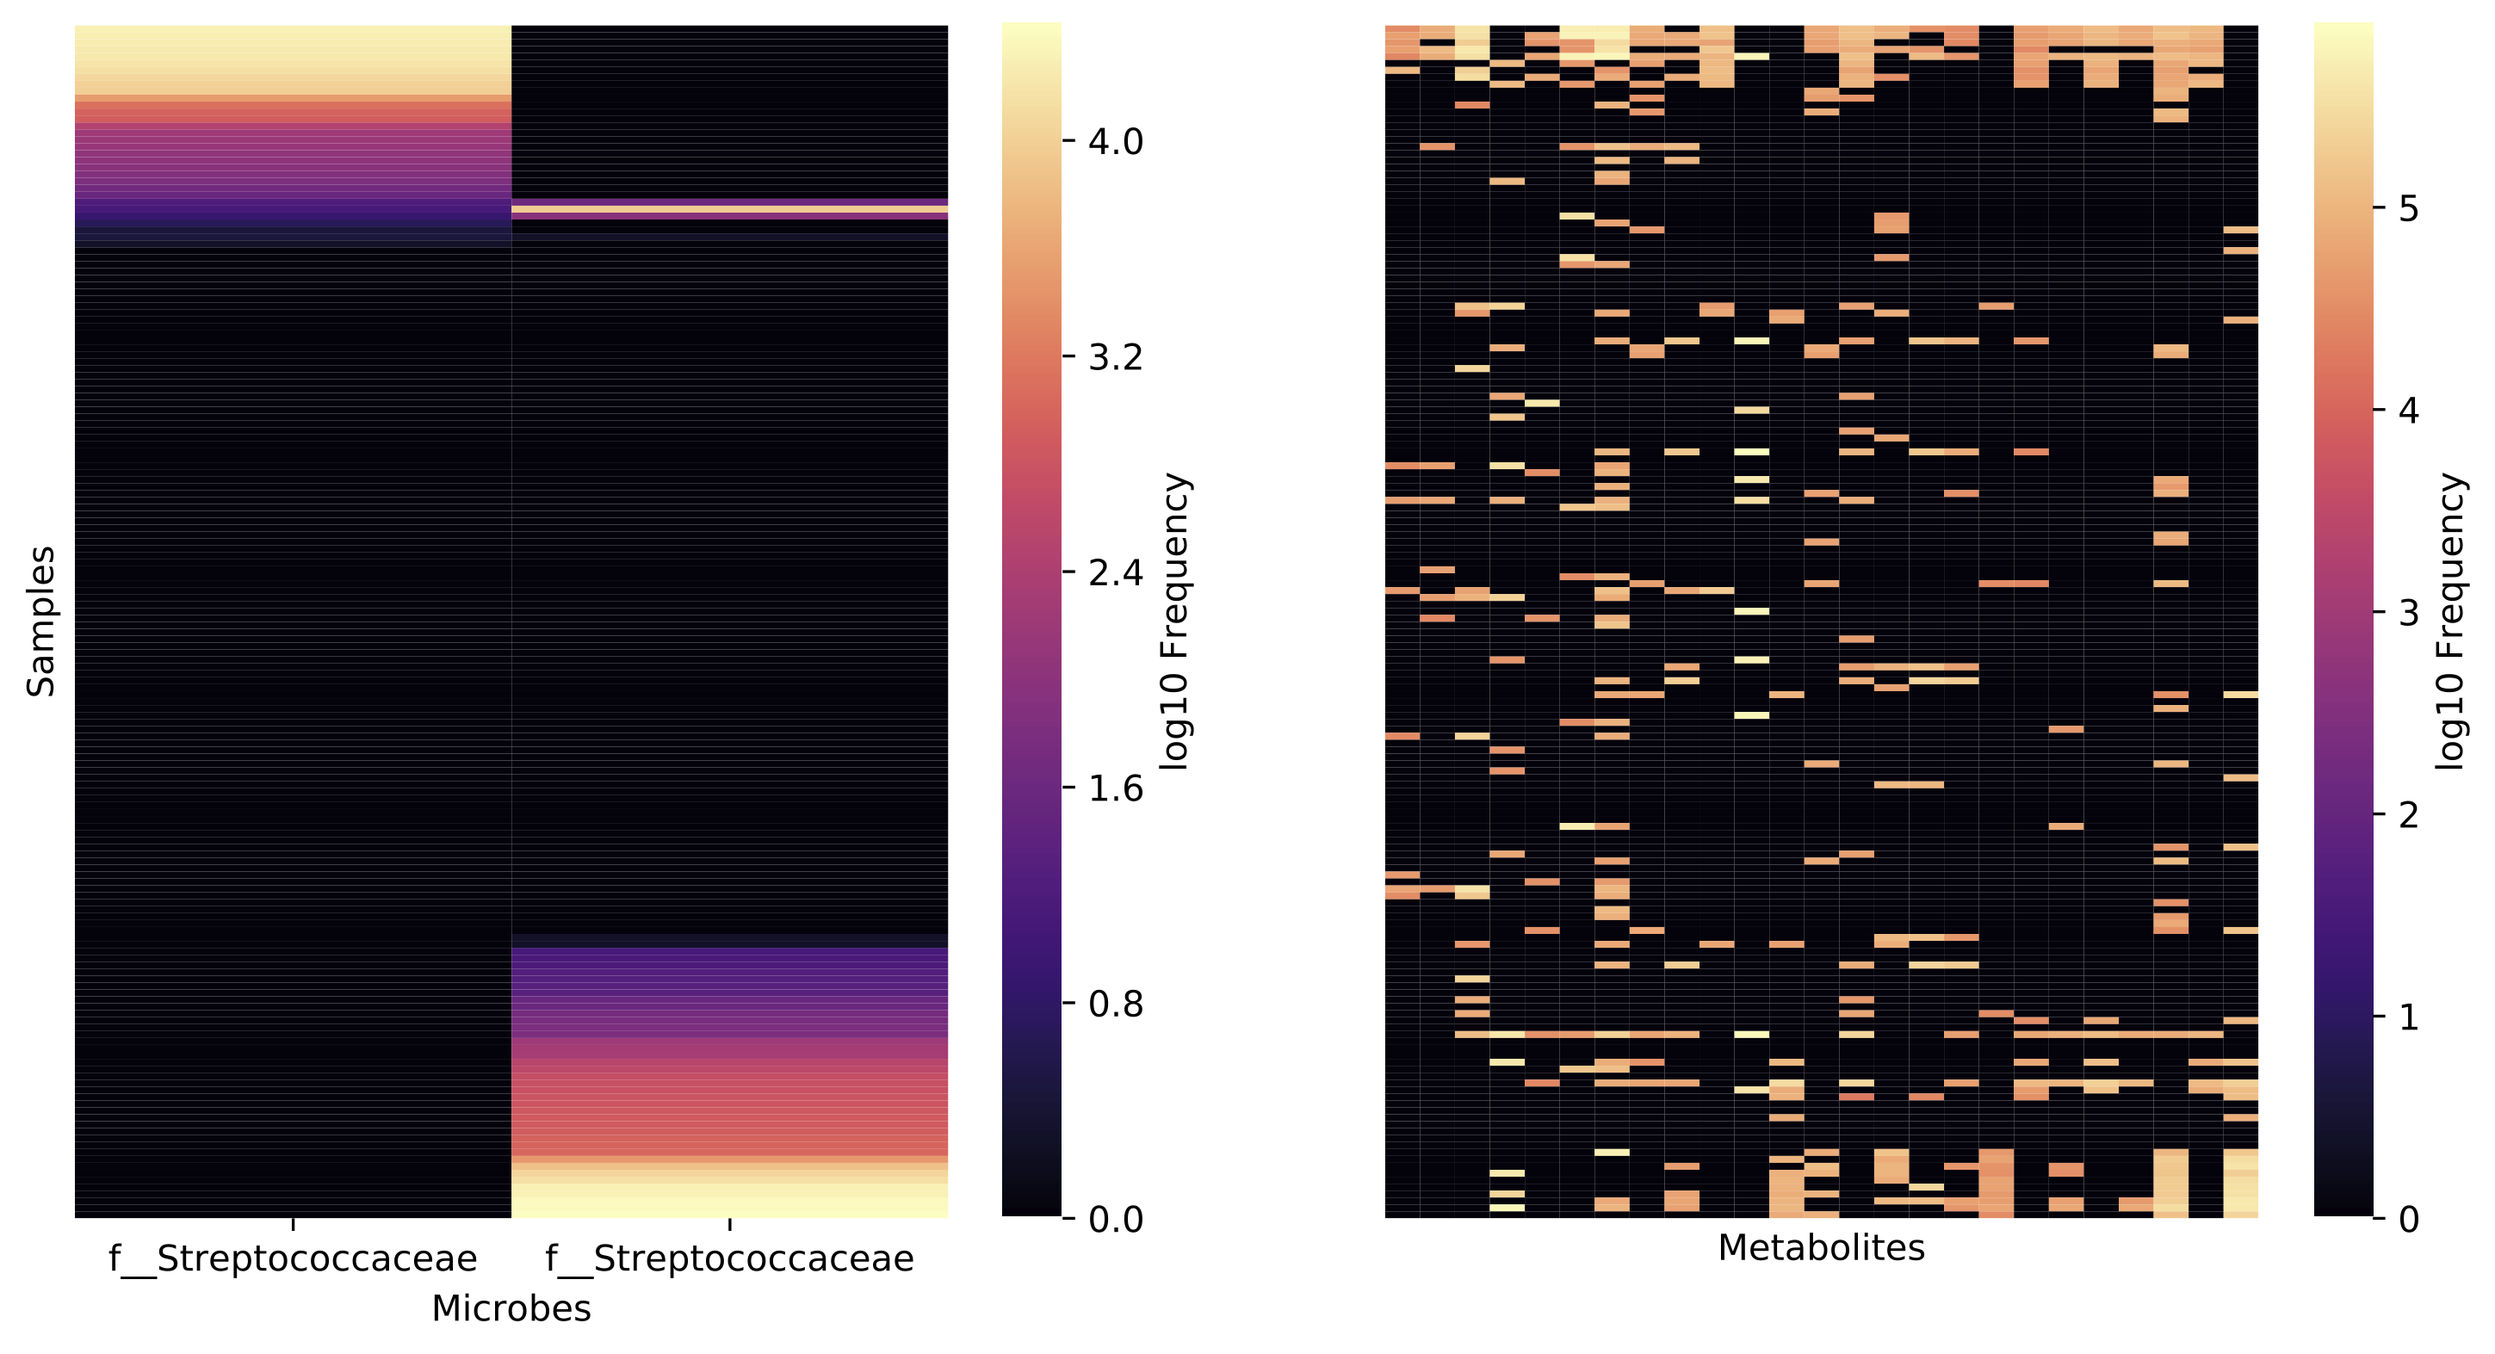
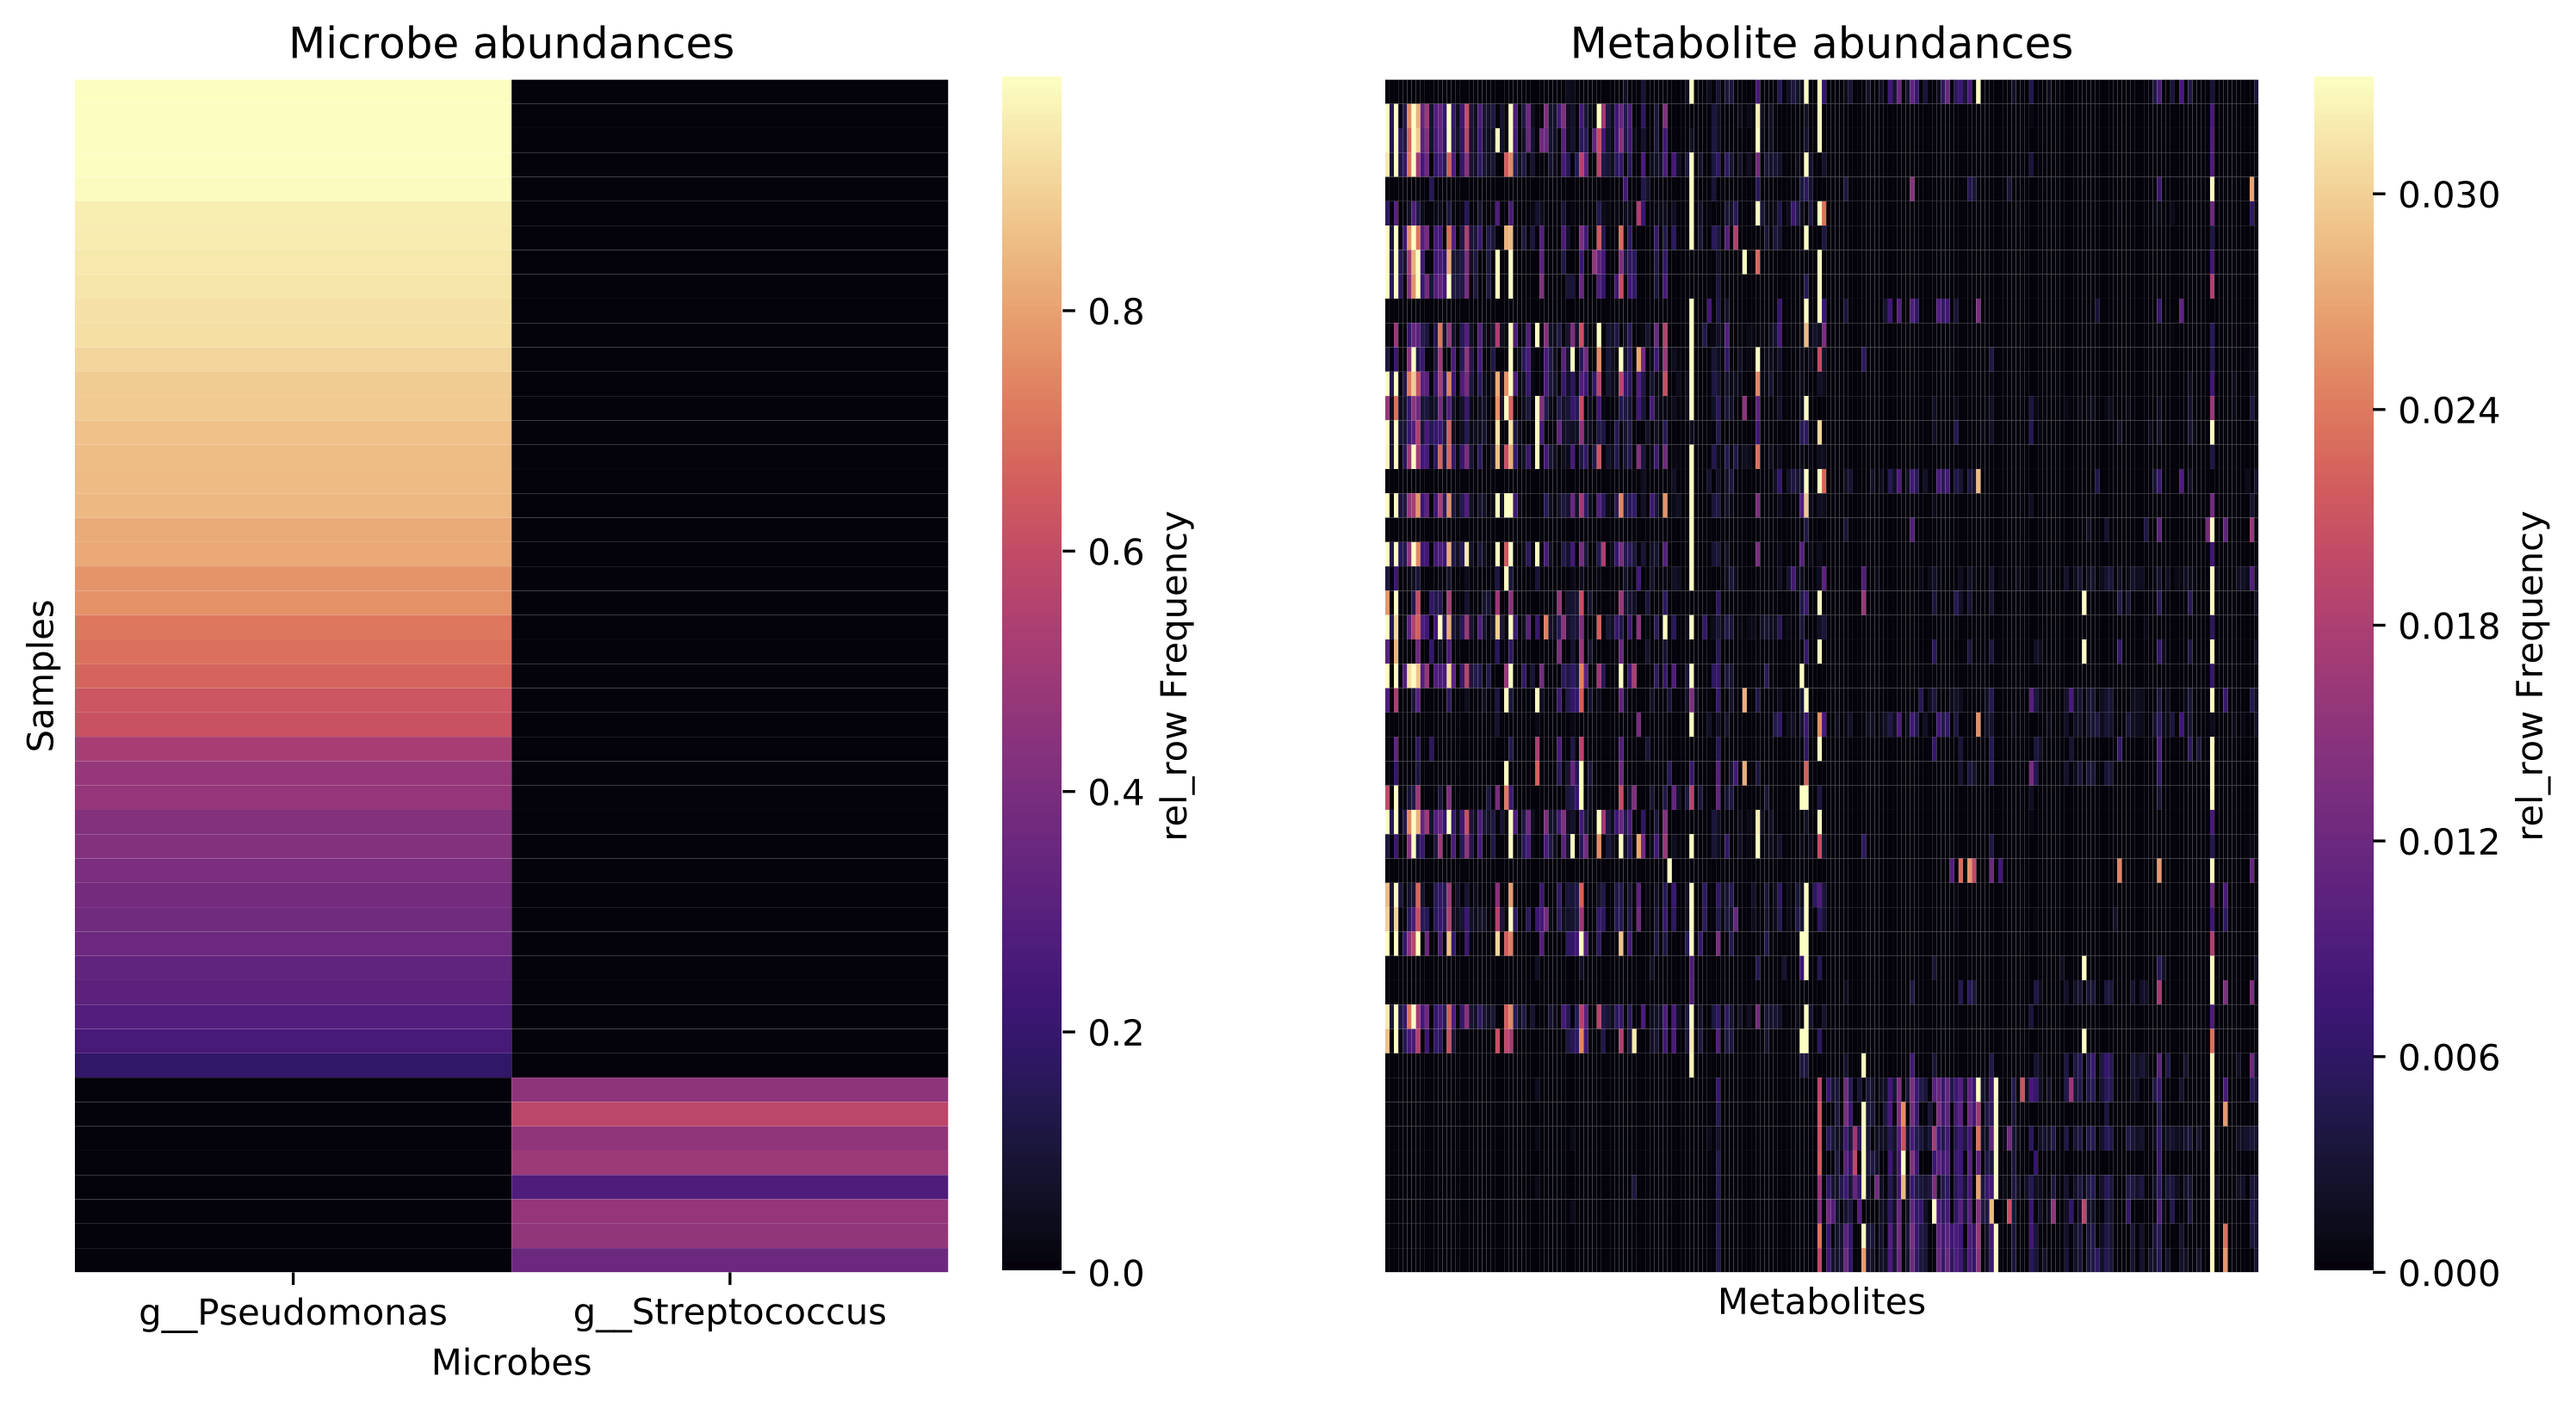
update paired-heatmaps

diff --git a/README.md b/README.md
@@ -138,26 +138,47 @@ values indicate no relationship, not necessarily a negative correlation. Rows
 (microbial features) can be annotated according to feature metadata, as shown
 in this example; we provide a taxonomic classification file and the semicolon-
 delimited taxonomic rank (`level`) that should be displayed in the color-coded
-margin annotation. Set `level` to `-1` to display the full annotation (including of non-delimited feature metadata). Separate parameters are available to annotate the x-axis (metabolites) in a similar fashion. Row and column clustering can be adjusted using the `method` and `metric` parameters. This action will generate a heatmap that looks similar to this:
+margin annotation. Set `level` to `-1` to display the full annotation
+(including of non-delimited feature metadata). Separate parameters are
+available to annotate the x-axis (metabolites) in a similar fashion. Row and
+column clustering can be adjusted using the `method` and `metric` parameters.
+This action will generate a heatmap that looks similar to this:
 
 ![heatmap](https://github.com/biocore/mmvec/raw/master/img/heatmap.png "Heatmap")
 
-Biplots and heatmaps give a great overview of co-occurrence associations, but do not provide information about the abundance of these co-occurring features in each sample. This can be done with the `paired-heatmap` action:
+Biplots and heatmaps give a great overview of co-occurrence associations, but
+do not provide information about the abundances of these co-occurring features
+in each sample. This can be done with the `paired-heatmap` action:
 
 ```
 qiime mmvec paired-heatmap \
   --i-ranks ranks.qza \
   --i-microbes-table otus_nt.qza \
   --i-metabolites-table lcms_nt.qza \
-  --p-top-k-microbes 2 \
-  --m-microbe-metadata-file taxonomy.tsv \
+	--m-microbe-metadata-file taxonomy.tsv \
   --m-microbe-metadata-column Taxon \
-  --p-top-k-metabolites 25 \
-  --p-level 5 \
+	--p-features TACGAAGGGTGCAAGCGTTAATCGGAATTACTGGGCGTAAAGCGCGCGTAGGTGGTTCAGCAAGTTGGATGTGAAATCCCCGGGCTCAACCTGGGAACTGCATCCAAAACTACTGAGCTAGAGTACGGTAGAGGGTGGTGGAATTTCCTG \
+  --p-features TACGTAGGTCCCGAGCGTTGTCCGGATTTATTGGGCGTAAAGCGAGCGCAGGCGGTTAGATAAGTCTGAAGTTAAAGGCTGTGGCTTAACCATAGTAGGCTTTGGAAACTGTTTAACTTGAGTGCAAGAGGGGAGAGTGGAATTCCATGT \
+  --p-top-k-microbes 0 \
+	--p-normalize rel_row \
+  --p-top-k-metabolites 100 \
+  --p-level 6 \
   --o-visualization paired-heatmap-top2.qzv
 ```
 
-This action generates paired heatmaps that are aligned on the y-axis (sample IDs): the left panel displays the abundances of each selected microbial feature in each sample, and the right panel displays the abundances of the top k metabolite features associated with these microbes in each sample. Microbes can be selected automatically using the `top-k-microbes` parameter (which selects the microbes with the top k highest log conditional probability scores) or they can be selected by name using the `features` parameter (if using the QIIME 2 plugin command-line interface as shown in this example, multiple features are selected by passing this parameter multiple times, e.g., `--p-features feature1 --p-features feature2`; for python interfaces, pass a list of features: `features=[feature1, feature2]`). As with the `heatmap` action, microbial features can be annotated by passing in `microbe-metadata` and specifying a taxonomic `level` to display. The output looks something like this:
+This action generates paired heatmaps that are aligned on the y-axis (sample
+IDs): the left panel displays the abundances of each selected microbial feature
+in each sample, and the right panel displays the abundances of the top k
+metabolite features associated with each of these microbes in each sample.
+Microbes can be selected automatically using the `top-k-microbes` parameter
+(which selects the microbes with the top k highest relative abundances) or they
+can be selected by name using the `features` parameter (if using the QIIME 2
+plugin command-line interface as shown in this example, multiple features are
+selected by passing this parameter multiple times, e.g., `--p-features feature1
+--p-features feature2`; for python interfaces, pass a list of features:
+`features=[feature1, feature2]`). As with the `heatmap` action, microbial
+features can be annotated by passing in `microbe-metadata` and specifying a
+taxonomic `level` to display. The output looks something like this:
 
 ![paired-heatmap](https://github.com/biocore/mmvec/raw/master/img/paired-heatmap.png "Paired Heatmap")
 
